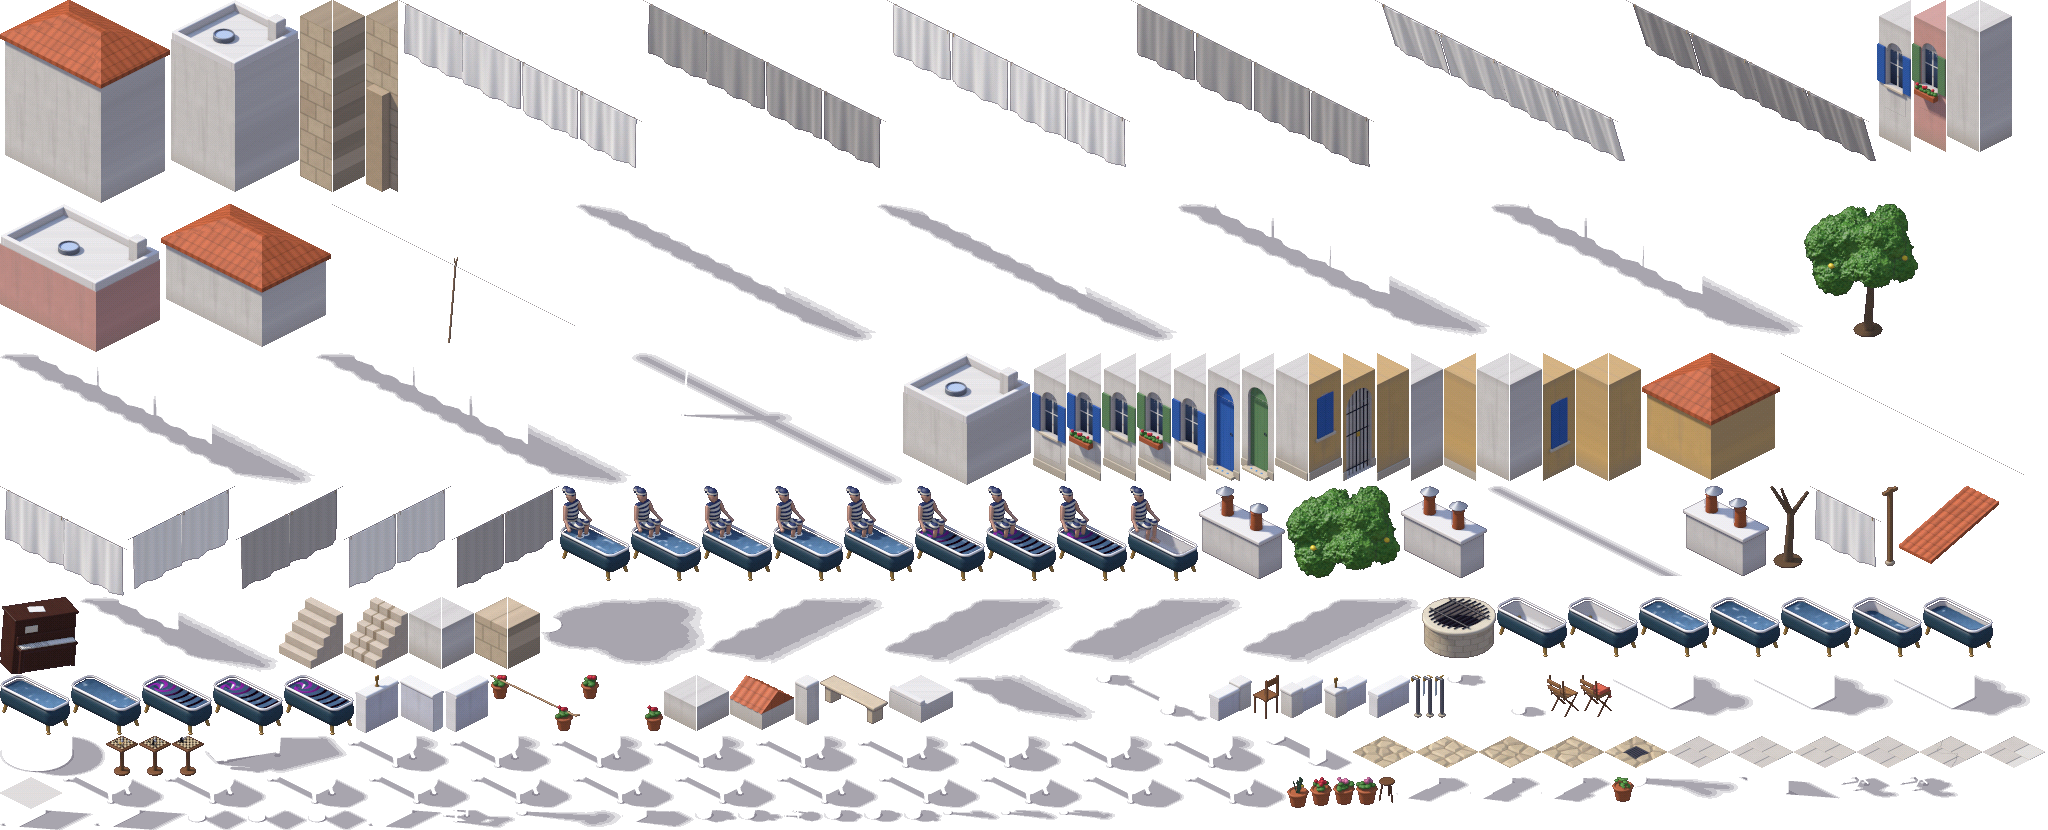
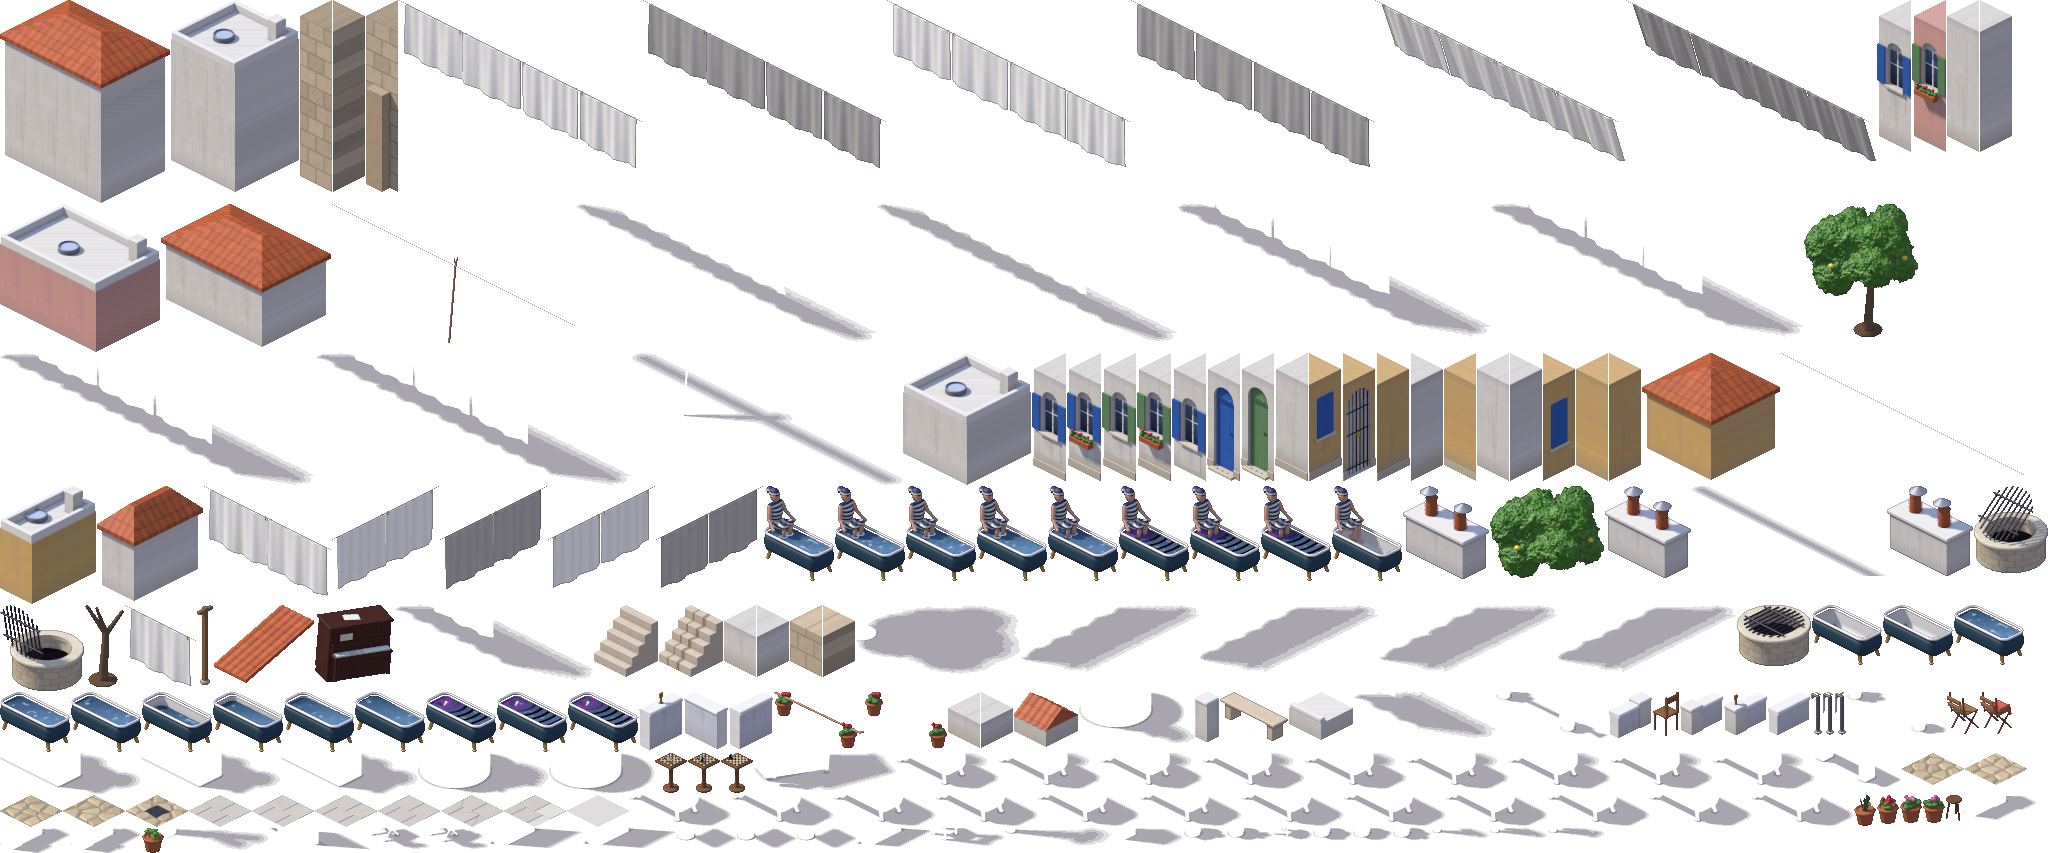
Iso: the well's grate lifting and open (cistern well_grate_1/2); one-tile-wide lower houses so lowRoofs fills to the map's edge

diff --git a/game/assets/iso/manifest.js b/game/assets/iso/manifest.js
@@ -202,18 +202,18 @@ export default {"tile":{"w":64,"h":32,"zPx":40},"sheets":{"cheryl":{"image":"che
 "frames":["left_1","left_2","left_3","left_4","left_5","left_6","left_7","left_8"],"ms":90},"idle_left":{
 "frames":["left_0","idle_left_1"],
 "ms":[2600,130]}}},"cistern":{"image":"cistern.png","frames":{
-"cobble_0":[1353,736,62,32,31,16,1,1,0],
-"cobble_1":[1416,736,62,32,31,16,1,1,0],
-"cobble_2":[1479,736,62,32,31,16,1,1,0],
-"cobble_3":[1542,736,62,32,31,16,1,1,0],
-"cobble_drain":[1605,736,62,32,31,16,1,1,0],
-"deck_nw":[1668,736,62,32,31,16,1,1,0],
-"deck_ne":[1731,736,62,32,31,16,1,1,0],
-"deck_sw":[1794,736,62,32,31,16,1,1,0],
-"deck_se":[1857,736,62,32,31,16,1,1,0],
-"deck_crack":[1920,736,62,32,31,16,1,1,0],
-"deck_patch":[1983,736,62,32,31,16,1,1,0],
-"roof_top":[0,777,62,32,31,16,1,1,0],
+"cobble_0":[1902,753,62,32,31,16,1,1,0],
+"cobble_1":[1965,753,62,32,31,16,1,1,0],
+"cobble_2":[0,795,62,32,31,16,1,1,0],
+"cobble_3":[63,795,62,32,31,16,1,1,0],
+"cobble_drain":[126,795,62,32,31,16,1,1,0],
+"deck_nw":[189,795,62,32,31,16,1,1,0],
+"deck_ne":[252,795,62,32,31,16,1,1,0],
+"deck_sw":[315,795,62,32,31,16,1,1,0],
+"deck_se":[378,795,62,32,31,16,1,1,0],
+"deck_crack":[441,795,62,32,31,16,1,1,0],
+"deck_patch":[504,795,62,32,31,16,1,1,0],
+"roof_top":[567,795,62,32,31,16,1,1,0],
 "facade_s_window_blue":[1032,353,34,128,34,112,1,1,96],
 "facade_s_window_box_blue":[1067,353,34,128,34,112,1,1,96],
 "facade_s_door_blue":[1207,353,33,128,33,112,1,1,96],
@@ -232,12 +232,12 @@ export default {"tile":{"w":64,"h":32,"zPx":40},"sheets":{"cheryl":{"image":"che
 "upper_e_window_closed_ochre":[1543,353,32,128,0,112,1,1,96],
 "upper_s_plain_ochre":[1576,353,32,128,32,112,1,1,96],
 "upper_e_plain_ochre":[1609,353,32,128,0,112,1,1,96],
-"course_s":[409,597,32,72,32,56,1,1,40],
-"course_e":[442,597,32,72,0,56,1,1,40],
-"course24_s":[664,675,32,56,32,40,1,1,24],
-"course24_e":[697,675,32,56,0,40,1,1,24],
-"retain_s":[475,597,32,72,32,56,1,1,40],
-"retain_e":[508,597,32,72,0,56,1,1,40],
+"course_s":[724,605,32,72,32,56,1,1,40],
+"course_e":[757,605,32,72,0,56,1,1,40],
+"course24_s":[948,692,32,56,32,40,1,1,24],
+"course24_e":[981,692,32,56,0,40,1,1,24],
+"retain_s":[790,605,32,72,32,56,1,1,40],
+"retain_e":[823,605,32,72,0,56,1,1,40],
 "crown_s":[300,0,32,192,32,176,1,1,160],
 "crown_e":[333,0,32,192,0,176,1,1,160],
 "crown_s_buttress":[366,0,32,192,32,176,1,1,160],
@@ -245,156 +245,162 @@ export default {"tile":{"w":64,"h":32,"zPx":40},"sheets":{"cheryl":{"image":"che
 "house_s_window_rose":[1912,0,34,152,34,136,1,1,120],
 "house_s_plain":[1947,0,32,152,32,136,1,1,120],
 "house_e_plain":[1980,0,32,152,0,136,1,1,120],
-"parapet_x":[400,675,44,57,22,46,1,1,36],
-"parapet_x.shadow":[1739,777,101,22,29,9],
-"parapet_y":[445,675,44,57,22,46,1,1,36],
-"parapet_y.shadow":[0,810,93,20,25,8],
-"parapet_pier":[795,675,24,50,12,44,1,1,38],
-"parapet_pier.shadow":[622,810,72,17,13,6],
-"parapet_y_pin":[355,675,44,58,22,47,1,1,44],
-"parapet_y_pin.shadow":[94,810,93,20,25,8],
-"lowwall_y":[1368,675,42,43,21,32,1,1,22],
-"lowwall_y.shadow":[368,810,74,19,24,8],
-"lowwall_end_s":[1280,675,43,43,22,32,1,1,24],
-"lowwall_end_s.shadow":[1470,777,70,25,22,11],
-"lowwall_end_s_pin":[1324,675,43,43,22,32,1,1,32],
-"lowwall_end_s_pin.shadow":[1541,777,70,25,22,11],
-"lowwall_end_n":[1209,675,43,46,21,35,1,1,24],
-"lowwall_end_n.shadow":[1396,777,73,25,22,11],
-"stair":[279,597,64,72,32,56,1,1,40],
-"pent_roof":[1899,486,100,78,50,50,1,2,24],
-"chimney":[1401,486,86,92,43,73,2,1,66],
-"chimney.shadow":[1754,675,139,41,41,14],
-"chimney_rattle_0":[1683,486,86,90,43,71,2,1,66],
-"chimney_rattle_0.shadow":[1894,675,136,41,41,14],
-"chimney_rattle_1":[1199,486,86,93,43,74,2,1,66],
-"chimney_rattle_1.shadow":[1613,675,140,41,41,14],
-"herb_basil":[1612,777,22,25,11,21,1,1,20],
-"herb_basil.shadow":[904,810,38,12,9,5],
-"herb_rosemary":[1287,777,22,31,11,27,1,1,24],
-"herb_rosemary.shadow":[738,810,45,12,9,5],
-"chair_fold":[1547,675,32,42,18,36,1,1,38],
-"chair_fold.shadow":[1841,777,58,21,14,7],
-"chair_cardigan":[1580,675,32,42,18,36,1,1,38],
-"chair_cardigan.shadow":[1900,777,58,21,14,7],
-"tap":[1411,675,11,43,7,41,1,1,40],
-"tap.shadow":[943,810,57,10,5,3],
-"tap_running_0":[1423,675,11,43,7,41,1,1,40],
-"tap_running_0.shadow":[1001,810,57,10,5,3],
-"tap_running_1":[1435,675,11,43,7,41,1,1,40],
-"tap_running_1.shadow":[1059,810,56,10,5,3],
-"tub_empty":[1497,597,70,60,35,44,2,1,28],
-"tub_empty.shadow":[63,777,101,31,34,10],
-"tub_plugged":[1568,597,70,60,35,44,2,1,28],
-"tub_plugged.shadow":[165,777,101,31,34,10],
-"tub_full_0":[1639,597,70,60,35,44,2,1,28],
-"tub_full_0.shadow":[267,777,101,31,34,10],
-"tub_full_1":[1710,597,70,60,35,44,2,1,28],
-"tub_full_1.shadow":[369,777,101,31,34,10],
-"tub_full_2":[1781,597,70,60,35,44,2,1,28],
-"tub_full_2.shadow":[471,777,101,31,34,10],
-"tub_filling_0":[1852,597,70,60,35,44,2,1,28],
-"tub_filling_0.shadow":[573,777,101,31,34,10],
-"tub_filling_1":[1923,597,70,60,35,44,2,1,28],
-"tub_filling_1.shadow":[675,777,101,31,34,10],
-"tub_slosh_0":[0,675,70,60,35,44,2,1,28],
-"tub_slosh_0.shadow":[777,777,101,31,34,10],
-"tub_slosh_1":[71,675,70,60,35,44,2,1,28],
-"tub_slosh_1.shadow":[879,777,101,31,34,10],
-"tub_whirl_wrong_0":[142,675,70,60,35,44,2,1,28],
-"tub_whirl_wrong_0.shadow":[981,777,101,31,34,10],
-"tub_whirl_wrong_1":[213,675,70,60,35,44,2,1,28],
-"tub_whirl_wrong_1.shadow":[1083,777,101,31,34,10],
-"tub_whirl_wrong_2":[284,675,70,60,35,44,2,1,28],
-"tub_whirl_wrong_2.shadow":[1185,777,101,31,34,10],
-"tub_sit_full_0":[560,486,70,95,35,79,2,1,66],
-"tub_sit_full_0.shadow":[348,736,101,36,34,15],
-"tub_sit_full_1":[631,486,70,95,35,79,2,1,66],
-"tub_sit_full_1.shadow":[450,736,101,36,34,15],
-"tub_sit_full_2":[702,486,70,95,35,79,2,1,66],
-"tub_sit_full_2.shadow":[552,736,101,36,34,15],
-"tub_sit_slosh_0":[773,486,70,95,35,79,2,1,66],
-"tub_sit_slosh_0.shadow":[654,736,101,36,34,15],
-"tub_sit_slosh_1":[844,486,70,95,35,79,2,1,66],
-"tub_sit_slosh_1.shadow":[756,736,101,36,34,15],
-"tub_sit_whirl_wrong_0":[915,486,70,95,35,79,2,1,66],
-"tub_sit_whirl_wrong_0.shadow":[858,736,101,36,34,15],
-"tub_sit_whirl_wrong_1":[986,486,70,95,35,79,2,1,66],
-"tub_sit_whirl_wrong_1.shadow":[960,736,101,36,34,15],
-"tub_sit_whirl_wrong_2":[1057,486,70,95,35,79,2,1,66],
-"tub_sit_whirl_wrong_2.shadow":[1062,736,101,36,34,15],
-"tub_sit_empty":[1128,486,70,95,35,79,2,1,66],
-"tub_sit_empty.shadow":[1164,736,101,36,34,15],
-"line_post":[1882,486,16,80,8,78,1,1,76],
-"line_post.shadow":[516,810,105,17,6,3],
-"sheets_ns_0":[128,486,107,103,53,102,1,3,76],
-"sheets_ns_0.shadow":[706,597,178,67,29,27],
-"sheets_ns_1":[344,486,107,102,53,102,1,3,76],
-"sheets_ns_1.shadow":[885,597,178,67,28,27],
+"parapet_x":[684,692,44,57,22,46,1,1,36],
+"parapet_x.shadow":[269,828,101,22,29,9],
+"parapet_y":[729,692,44,57,22,46,1,1,36],
+"parapet_y.shadow":[489,828,93,20,25,8],
+"parapet_pier":[1195,692,24,50,12,44,1,1,38],
+"parapet_pier.shadow":[1111,828,72,17,13,6],
+"parapet_y_pin":[639,692,44,58,22,47,1,1,44],
+"parapet_y_pin.shadow":[583,828,93,20,25,8],
+"lowwall_y":[1768,692,42,43,21,32,1,1,22],
+"lowwall_y.shadow":[857,828,74,19,24,8],
+"lowwall_end_s":[1680,692,43,43,22,32,1,1,24],
+"lowwall_end_s.shadow":[0,828,70,25,22,11],
+"lowwall_end_s_pin":[1724,692,43,43,22,32,1,1,32],
+"lowwall_end_s_pin.shadow":[71,828,70,25,22,11],
+"lowwall_end_n":[1609,692,43,46,21,35,1,1,24],
+"lowwall_end_n.shadow":[1963,795,73,25,22,11],
+"stair":[594,605,64,72,32,56,1,1,40],
+"pent_roof":[214,605,100,78,50,50,1,2,24],
+"chimney":[1605,486,86,92,43,73,2,1,66],
+"chimney.shadow":[141,753,139,41,41,14],
+"chimney_rattle_0":[1887,486,86,90,43,71,2,1,66],
+"chimney_rattle_0.shadow":[281,753,136,41,41,14],
+"chimney_rattle_1":[1403,486,86,93,43,74,2,1,66],
+"chimney_rattle_1.shadow":[0,753,140,41,41,14],
+"herb_basil":[142,828,22,25,11,21,1,1,20],
+"herb_basil.shadow":[1393,828,38,12,9,5],
+"herb_rosemary":[1854,795,22,31,11,27,1,1,24],
+"herb_rosemary.shadow":[1227,828,45,12,9,5],
+"chair_fold":[1947,692,32,42,18,36,1,1,38],
+"chair_fold.shadow":[371,828,58,21,14,7],
+"chair_cardigan":[1980,692,32,42,18,36,1,1,38],
+"chair_cardigan.shadow":[430,828,58,21,14,7],
+"tap":[1811,692,11,43,7,41,1,1,40],
+"tap.shadow":[1432,828,57,10,5,3],
+"tap_running_0":[1823,692,11,43,7,41,1,1,40],
+"tap_running_0.shadow":[1490,828,57,10,5,3],
+"tap_running_1":[1835,692,11,43,7,41,1,1,40],
+"tap_running_1.shadow":[1548,828,56,10,5,3],
+"tub_empty":[1812,605,70,60,35,44,2,1,28],
+"tub_empty.shadow":[630,795,101,31,34,10],
+"tub_plugged":[1883,605,70,60,35,44,2,1,28],
+"tub_plugged.shadow":[732,795,101,31,34,10],
+"tub_full_0":[1954,605,70,60,35,44,2,1,28],
+"tub_full_0.shadow":[834,795,101,31,34,10],
+"tub_full_1":[0,692,70,60,35,44,2,1,28],
+"tub_full_1.shadow":[936,795,101,31,34,10],
+"tub_full_2":[71,692,70,60,35,44,2,1,28],
+"tub_full_2.shadow":[1038,795,101,31,34,10],
+"tub_filling_0":[142,692,70,60,35,44,2,1,28],
+"tub_filling_0.shadow":[1140,795,101,31,34,10],
+"tub_filling_1":[213,692,70,60,35,44,2,1,28],
+"tub_filling_1.shadow":[1242,795,101,31,34,10],
+"tub_slosh_0":[284,692,70,60,35,44,2,1,28],
+"tub_slosh_0.shadow":[1344,795,101,31,34,10],
+"tub_slosh_1":[355,692,70,60,35,44,2,1,28],
+"tub_slosh_1.shadow":[1446,795,101,31,34,10],
+"tub_whirl_wrong_0":[426,692,70,60,35,44,2,1,28],
+"tub_whirl_wrong_0.shadow":[1548,795,101,31,34,10],
+"tub_whirl_wrong_1":[497,692,70,60,35,44,2,1,28],
+"tub_whirl_wrong_1.shadow":[1650,795,101,31,34,10],
+"tub_whirl_wrong_2":[568,692,70,60,35,44,2,1,28],
+"tub_whirl_wrong_2.shadow":[1752,795,101,31,34,10],
+"tub_sit_full_0":[764,486,70,95,35,79,2,1,66],
+"tub_sit_full_0.shadow":[897,753,101,36,34,15],
+"tub_sit_full_1":[835,486,70,95,35,79,2,1,66],
+"tub_sit_full_1.shadow":[999,753,101,36,34,15],
+"tub_sit_full_2":[906,486,70,95,35,79,2,1,66],
+"tub_sit_full_2.shadow":[1101,753,101,36,34,15],
+"tub_sit_slosh_0":[977,486,70,95,35,79,2,1,66],
+"tub_sit_slosh_0.shadow":[1203,753,101,36,34,15],
+"tub_sit_slosh_1":[1048,486,70,95,35,79,2,1,66],
+"tub_sit_slosh_1.shadow":[1305,753,101,36,34,15],
+"tub_sit_whirl_wrong_0":[1119,486,70,95,35,79,2,1,66],
+"tub_sit_whirl_wrong_0.shadow":[1407,753,101,36,34,15],
+"tub_sit_whirl_wrong_1":[1190,486,70,95,35,79,2,1,66],
+"tub_sit_whirl_wrong_1.shadow":[1509,753,101,36,34,15],
+"tub_sit_whirl_wrong_2":[1261,486,70,95,35,79,2,1,66],
+"tub_sit_whirl_wrong_2.shadow":[1611,753,101,36,34,15],
+"tub_sit_empty":[1332,486,70,95,35,79,2,1,66],
+"tub_sit_empty.shadow":[1713,753,101,36,34,15],
+"line_post":[197,605,16,80,8,78,1,1,76],
+"line_post.shadow":[1005,828,105,17,6,3],
+"sheets_ns_0":[332,486,107,103,53,102,1,3,76],
+"sheets_ns_0.shadow":[1021,605,178,67,29,27],
+"sheets_ns_1":[548,486,107,102,53,102,1,3,76],
+"sheets_ns_1.shadow":[1200,605,178,67,28,27],
 "backline_sheets_0":[399,0,243,168,122,136,8,1,76],
 "backline_sheets_0.shadow":[0,353,315,132,97,59],
 "backline_sheets_1":[887,0,243,167,122,136,8,1,76],
 "backline_sheets_1.shadow":[1178,204,312,133,95,59],
 "backline_swung":[1375,0,250,161,122,136,8,1,76],
 "backline_swung.shadow":[576,204,300,138,82,65],
-"sheets_ns_grey_0":[236,486,107,103,53,102,1,3,76],
-"sheets_ns_grey_0.shadow":[1064,597,178,67,29,27],
-"sheets_ns_grey_1":[452,486,107,102,53,102,1,3,76],
-"sheets_ns_grey_1.shadow":[1243,597,178,67,28,27],
+"sheets_ns_grey_0":[440,486,107,103,53,102,1,3,76],
+"sheets_ns_grey_0.shadow":[1379,605,178,67,29,27],
+"sheets_ns_grey_1":[656,486,107,102,53,102,1,3,76],
+"sheets_ns_grey_1.shadow":[1558,605,178,67,28,27],
 "backline_sheets_grey_0":[643,0,243,168,122,136,8,1,76],
 "backline_sheets_grey_0.shadow":[316,353,315,132,97,59],
 "backline_sheets_grey_1":[1131,0,243,167,122,136,8,1,76],
 "backline_sheets_grey_1.shadow":[1491,204,312,133,95,59],
 "backline_swung_grey":[1626,0,250,161,122,136,8,1,76],
 "backline_swung_grey.shadow":[877,204,300,138,82,65],
-"backline_one":[1810,486,71,81,122,136,8,1,76],
-"backline_one.shadow":[954,675,141,47,97,60],
-"backline_two":[0,486,127,110,122,136,8,1,76],
-"backline_two.shadow":[80,597,198,75,97,59],
+"backline_one":[125,605,71,81,122,136,8,1,76],
+"backline_one.shadow":[1354,692,141,47,97,60],
+"backline_two":[204,486,127,110,122,136,8,1,76],
+"backline_two.shadow":[395,605,198,75,97,59],
 "backline_prop":[332,204,243,139,122,136,8,1,76],
 "backline_prop.shadow":[632,353,270,132,56,60],
 "backline_sag":[1781,353,243,122,122,118,8,1,60],
-"backline_sag.shadow":[1488,486,194,90,72,60],
+"backline_sag.shadow":[1692,486,194,90,72,60],
 "lemon_tree":[1804,204,114,133,64,126,1,1,120],
-"lemon_tree.shadow":[541,597,164,69,6,28],
-"lemon_trunk":[1770,486,39,82,18,75,1,1,80],
-"lemon_trunk.shadow":[1635,777,103,22,-3,3],
-"over_lemon_canopy":[1286,486,114,92,64,126,3,3,120],
-"chess_plug":[106,736,32,40,16,36,1,1,32],
-"chess_plug.shadow":[188,810,59,20,9,8],
-"chess_pepper":[139,736,32,40,16,36,1,1,32],
-"chess_pepper.shadow":[248,810,59,20,9,8],
-"chess_slid":[172,736,32,40,16,36,1,1,32],
-"chess_slid.shadow":[308,810,59,20,9,8],
-"stool":[1379,777,16,26,8,22,1,1,18],
-"stool.shadow":[784,810,39,12,9,5],
-"gerald_chair":[1253,675,26,44,13,38,1,1,38],
-"gerald_chair.shadow":[443,810,72,18,13,6],
-"well":[1422,597,74,61,37,44,2,2,30],
-"well.shadow":[0,736,105,40,37,18],
-"hurdle":[490,675,90,56,42,37,3,1,22],
-"hurdle.shadow":[1096,675,112,46,40,20],
-"pots_bare":[581,675,82,56,41,37,3,1,22],
-"pots_bare.shadow":[1447,675,99,42,40,20],
-"geraniums_0":[1333,777,22,28,11,24,1,1,24],
-"geraniums_0.shadow":[695,810,42,13,9,5],
-"geraniums_1":[1356,777,22,28,11,24,1,1,24],
-"geraniums_1.shadow":[824,810,39,12,9,5],
-"geraniums_2":[1310,777,22,29,11,25,1,1,24],
-"geraniums_2.shadow":[864,810,39,12,9,5],
-"bench":[820,675,68,49,34,35,2,1,18],
-"bench.shadow":[1266,736,86,34,31,15],
-"piano":[0,597,79,77,36,67,2,2,56],
-"piano.shadow":[205,736,142,37,36,15],
-"lowroof_terra":[730,675,64,55,32,39,1,1,30],
-"lowroof_flat":[889,675,64,48,32,32,1,1,20],
+"lemon_tree.shadow":[856,605,164,69,6,28],
+"lemon_trunk":[85,605,39,82,18,75,1,1,80],
+"lemon_trunk.shadow":[165,828,103,22,-3,3],
+"over_lemon_canopy":[1490,486,114,92,64,126,3,3,120],
+"chess_plug":[655,753,32,40,16,36,1,1,32],
+"chess_plug.shadow":[677,828,59,20,9,8],
+"chess_pepper":[688,753,32,40,16,36,1,1,32],
+"chess_pepper.shadow":[737,828,59,20,9,8],
+"chess_slid":[721,753,32,40,16,36,1,1,32],
+"chess_slid.shadow":[797,828,59,20,9,8],
+"stool":[1946,795,16,26,8,22,1,1,18],
+"stool.shadow":[1273,828,39,12,9,5],
+"gerald_chair":[1653,692,26,44,13,38,1,1,38],
+"gerald_chair.shadow":[932,828,72,18,13,6],
+"well":[1737,605,74,61,37,44,2,2,30],
+"well.shadow":[549,753,105,40,37,18],
+"well_grate_1":[1974,486,74,87,37,70,2,2,50],
+"well_grate_1.shadow":[418,753,130,40,37,18],
+"well_grate_2":[0,605,84,86,47,69,2,2,60],
+"well_grate_2.shadow":[1079,692,115,51,37,18],
+"hurdle":[774,692,90,56,42,37,3,1,22],
+"hurdle.shadow":[1496,692,112,46,40,20],
+"pots_bare":[865,692,82,56,41,37,3,1,22],
+"pots_bare.shadow":[1847,692,99,42,40,20],
+"geraniums_0":[1900,795,22,28,11,24,1,1,24],
+"geraniums_0.shadow":[1184,828,42,13,9,5],
+"geraniums_1":[1923,795,22,28,11,24,1,1,24],
+"geraniums_1.shadow":[1313,828,39,12,9,5],
+"geraniums_2":[1877,795,22,29,11,25,1,1,24],
+"geraniums_2.shadow":[1353,828,39,12,9,5],
+"bench":[1220,692,68,49,34,35,2,1,18],
+"bench.shadow":[1815,753,86,34,31,15],
+"piano":[315,605,79,77,36,67,2,2,56],
+"piano.shadow":[754,753,142,37,36,15],
+"lowroof_terra":[1014,692,64,55,32,39,1,1,30],
+"lowroof_flat":[1289,692,64,48,32,32,1,1,20],
 "lowhouse_terra_3x2":[161,204,170,143,85,103,3,2,80],
 "lowhouse_terra_2x2":[1642,353,138,127,69,95,2,2,80],
 "lowhouse_flat_2x2":[903,353,128,132,64,100,2,2,70],
 "lowhouse_flat_3x2":[0,204,160,148,80,108,3,2,70],
+"lowhouse_flat_1x2":[0,486,96,118,48,94,1,2,70],
+"lowhouse_terra_1x2":[97,486,106,115,53,91,1,2,80],
 "lowhouse_flat_2x2_tall":[171,0,128,192,64,160,2,2,130],
 "lowhouse_terra_3x2_tall":[0,0,170,203,85,163,3,2,140],
-"stair_scraped":[344,597,64,72,32,56,1,1,40]},"anims":{"tub_full":{
+"stair_scraped":[659,605,64,72,32,56,1,1,40]},"anims":{"tub_full":{
 "frames":["tub_full_0","tub_full_1","tub_full_2"],"ms":260},"tub_filling":{
 "frames":["tub_filling_0","tub_filling_1"],"ms":400},"tub_slosh":{
 "frames":["tub_slosh_0","tub_slosh_1"],"ms":220},"tub_whirl_wrong":{

diff --git a/game/src/content/iso-kit.js b/game/src/content/iso-kit.js
@@ -127,13 +127,15 @@ export function isoScene() {
     /** The roofs of the houses below a street's edge (cistern's lowhouse props), from x0 for w tiles. */
     lowRoofs(x0, y0, w, { z = -80, skip = [] } = {}) {
       const kinds = ['lowhouse_terra_3x2', 'lowhouse_flat_2x2', 'lowhouse_flat_3x2', 'lowhouse_terra_2x2'];
+      const narrower = { 3: ['lowhouse_flat_3x2', 'lowhouse_terra_3x2'], 2: ['lowhouse_flat_2x2', 'lowhouse_terra_2x2'], 1: ['lowhouse_flat_1x2', 'lowhouse_terra_1x2'] };
       let x = x0, i = 0;
       while (x < x0 + w) {
         if (skip.includes(x)) { x++; continue; }
-        let k = kinds[(i++ + x0) % kinds.length];
-        let kw = k.includes('3x2') ? 3 : 2;
-        while (skip.some((s) => s >= x && s < x + kw) || x + kw > x0 + w) { kw--; k = kw >= 2 ? 'lowhouse_flat_2x2' : null; if (!k) break; }
-        if (!k) { x++; continue; }
+        const k0 = kinds[(i++ + x0) % kinds.length];
+        let kw = k0.includes('3x2') ? 3 : 2;
+        // Narrow the house until it fits before the next gap or the map's edge (down to one tile).
+        while (kw > 1 && (skip.some((s) => s >= x && s < x + kw) || x + kw > x0 + w)) kw--;
+        const k = kw === (k0.includes('3x2') ? 3 : 2) ? k0 : narrower[kw][i % 2];
         add('cistern', k, x, y0, z - 60, kw, 2, 1);
         x += kw;
       }
